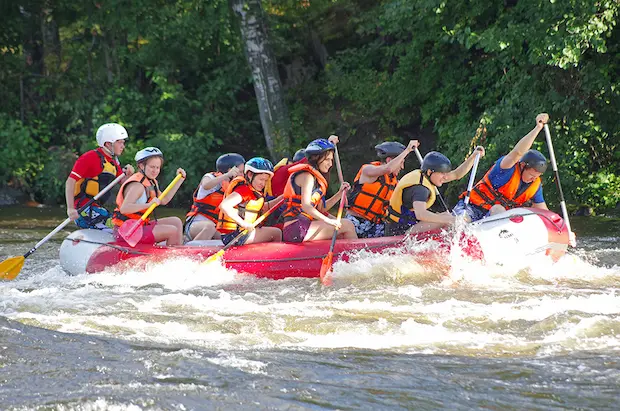
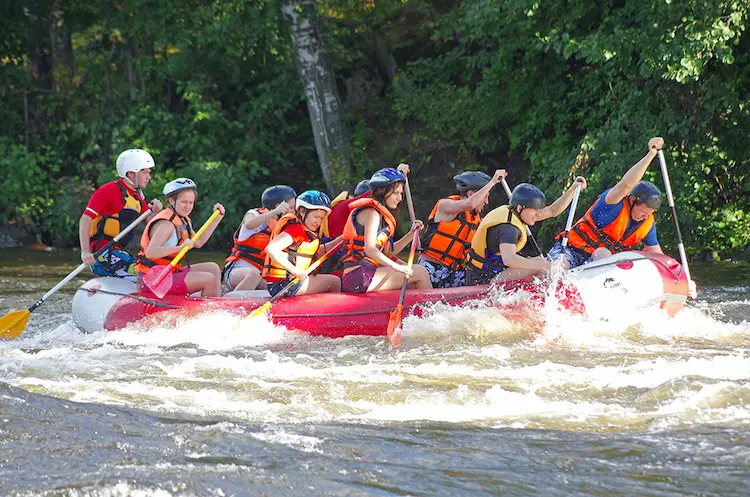
first about us

diff --git a/week03/wwr/style/rafting.css b/week03/wwr/style/rafting.css
@@ -1,0 +1,88 @@
+
+:root{
+    --primary-color: #0F3B2F;
+    --secondary-color: #1B4F72; 
+    --accent1-color:#FB8500;
+    --accent2-color:#E8E4D9;
+    --heading-font:"Crazy Rafting", "Amazonas", serif;
+    --body-font:Arial, Helvetica, sans-serif;
+}
+
+*{
+    margin: 0 auto;
+    padding: 0;
+    box-sizing: border-box;
+}
+
+body{
+    font-family: var(--body-font);
+    color: var(--secondary-color); 
+    
+}
+
+header, main, footer {
+    width: 840px;
+    margin: 0 auto;
+}   
+
+h1, h2{
+    font-family: var(--heading-font);
+    color: var(--primary-color);
+}
+
+nav, p, section, article{
+    margin: 16px;
+    padding: 8px;
+}
+
+.socialmedia a {
+    text-decoration: none;
+}
+
+
+
+.hero img{
+    display: block;
+    width: 100%;
+    height: auto;
+}
+
+h1 {
+    position: absolute;
+    top: 10px;
+    width: 750px;
+    padding: 16px;
+    text-align: center;
+    opacity: 0.7;
+    background-color: var(--accent2-color);
+    color: var(--primary-color);
+
+}
+
+.hero article img{
+    float: right;
+    width: 125px;
+}
+
+
+
+header img{
+    width: 100px;
+    height: auto;
+
+}
+
+main article img{
+    width: 100px;
+}
+
+
+
+footer img{
+    width: 50px;
+}
+
+body main h1, article{
+    text-align: center;
+}
+

diff --git a/week03/wwr/about.html b/week03/wwr/about.html
@@ -26,10 +26,10 @@
     </header>
     <main>
         <div class="Hero">
-            <img src="images/rafting14_1024.webp" alt=" ">
+            <img src="images/rafting27_1024.webp" alt=" ">
             <h1>Welcome to Crazy Rafting on the Amazon</h1>
             <article>
-                <img src="images/litte-rafting.webp" alt="">
+                <img src="images/rafting65_600.jpg" alt="">
                 <p>el mejor lugar para poder para vivir la experiencia de de raftin atraves del amazonas, pasando por
                     peligros y otros</p>
             </article>
